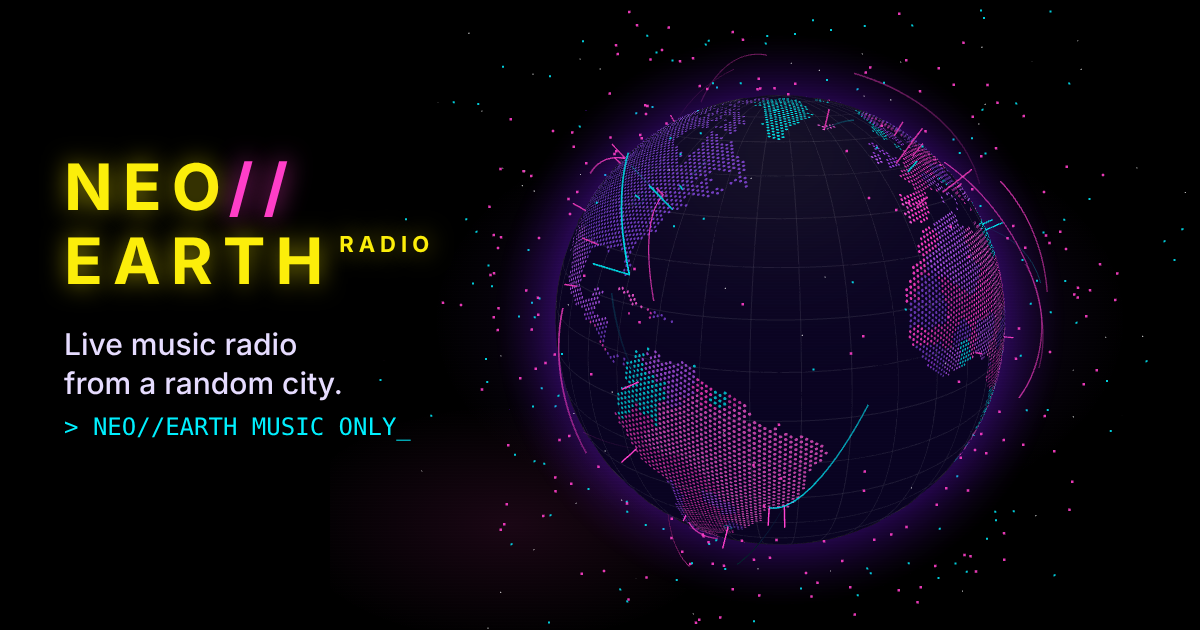
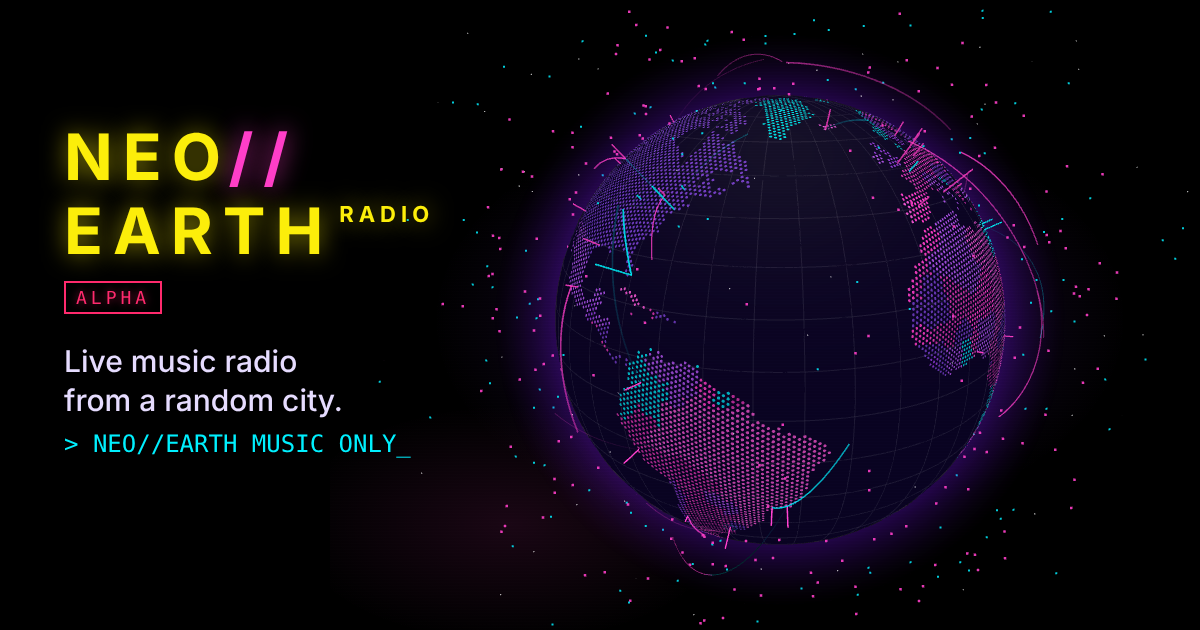
Add an ALPHA tag to all branding (build 23)
Logos in the top bar, start screen and admin dashboard, page titles,
the home-screen app name, the link-preview image and the sign-in email
now say ALPHA, to make clear the app is still in development.

Claude-Session: https://claude.ai/code/session_019KeTU5aDRdymmhchfng2r1

diff --git a/public/index.html b/public/index.html
@@ -3,13 +3,13 @@
 <head>
   <meta charset="utf-8">
   <meta name="viewport" content="width=device-width, initial-scale=1, viewport-fit=cover">
-  <title>Neo Earth Radio</title>
+  <title>Neo Earth Radio (Alpha)</title>
   <meta name="description" content="Live music radio from a random city on Neo-Earth. Neo//Earth music only. Spin a neon globe and tune in to stations around the world.">
   <!-- Link previews (iMessage, WhatsApp, Slack, social). scripts/build-meta.js
        turns these relative addresses into full ones when Vercel deploys. -->
   <meta property="og:type" content="website">
-  <meta property="og:site_name" content="Neo Earth Radio">
-  <meta property="og:title" content="Neo Earth Radio">
+  <meta property="og:site_name" content="Neo Earth Radio (Alpha)">
+  <meta property="og:title" content="Neo Earth Radio (Alpha)">
   <meta property="og:description" content="Live music radio from a random city on Neo-Earth. Neo//Earth music only.">
   <meta property="og:url" content="/">
   <meta property="og:image" content="/og-image.png">
@@ -17,7 +17,7 @@
   <meta property="og:image:height" content="630">
   <meta property="og:image:alt" content="Neo Earth Radio: a neon globe with glowing cities and radio links">
   <meta name="twitter:card" content="summary_large_image">
-  <meta name="twitter:title" content="Neo Earth Radio">
+  <meta name="twitter:title" content="Neo Earth Radio (Alpha)">
   <meta name="twitter:description" content="Live music radio from a random city on Neo-Earth. Neo//Earth music only.">
   <meta name="twitter:image" content="/og-image.png">
   <meta name="apple-mobile-web-app-title" content="Neo Earth">
@@ -37,7 +37,7 @@
   <div class="scanlines" aria-hidden="true"></div>
 
   <header class="topbar">
-    <div class="brand" aria-label="Neo Earth Radio">NEO<b>//</b>EARTH<sup class="suffix">RADIO</sup></div>
+    <div class="brand" aria-label="Neo Earth Radio, alpha">NEO<b>//</b>EARTH<sup class="suffix">RADIO</sup><span class="alpha" title="Still in development">ALPHA</span></div>
     <div class="coords mono" id="coords" aria-hidden="true">--.--°  --.--°</div>
     <button class="btn-ghost" id="openFavs" aria-controls="drawer" aria-expanded="false">
       <span class="heart" aria-hidden="true">♥</span> <span id="favLabel">SAVED</span> <span id="favCount" class="mono">0</span><span class="inbox-dot" id="inboxDot" hidden aria-label="Incoming transmissions"></span>
@@ -199,7 +199,8 @@
 
   <div class="boot" id="boot">
     <div class="boot-inner">
-      <div class="brand big" data-text="NEO//EARTH" aria-label="Neo Earth Radio">NEO<b>//</b>EARTH<sup class="suffix">RADIO</sup></div>
+      <div class="brand big" data-text="NEO//EARTH" aria-label="Neo Earth Radio, alpha">NEO<b>//</b>EARTH<sup class="suffix">RADIO</sup></div>
+      <span class="alpha alpha-boot">ALPHA // STILL IN DEVELOPMENT</span>
       <p class="mono boot-log" id="bootLog">&gt; LOADING WORLD GRID…</p>
       <p class="boot-copy">Live music radio from a random city on Neo-Earth. Neo-Earth music only.</p>
       <button class="jack" id="jackIn">JACK IN</button>

diff --git a/public/admin.html b/public/admin.html
@@ -3,7 +3,7 @@
 <head>
   <meta charset="utf-8">
   <meta name="viewport" content="width=device-width, initial-scale=1, viewport-fit=cover">
-  <title>Neo Earth Radio Dashboard</title>
+  <title>Neo Earth Radio Dashboard (Alpha)</title>
   <meta name="robots" content="noindex, nofollow">
   <meta name="theme-color" content="#05020f">
   <link rel="icon" href="/favicon.svg" type="image/svg+xml">
@@ -41,6 +41,7 @@
     header { display: flex; flex-wrap: wrap; align-items: center; gap: 12px; justify-content: space-between; }
     .brand { font-weight: 700; letter-spacing: 0.18em; font-size: 18px; color: var(--yellow); }
     .brand b { color: var(--pink); }
+    .brand .alpha { font-style: normal; font-size: 10px; letter-spacing: 0.16em; color: var(--pink); border: 1px solid var(--pink); padding: 2px 5px; margin-left: 10px; vertical-align: middle; }
     .brand .suffix { font-size: 0.45em; letter-spacing: 0.12em; vertical-align: super; margin-left: 0.25em; }
     .brand span { color: var(--dim); font-weight: 600; letter-spacing: 0.22em; font-size: 13px; margin-left: 8px; }
     .who { display: flex; align-items: center; gap: 10px; color: var(--dim); font-size: 13px; flex-wrap: wrap; }
@@ -111,7 +112,7 @@
 <body>
   <div class="wrap">
     <header>
-      <div class="brand">NEO<b>//</b>EARTH<sup class="suffix">RADIO</sup><span>DASHBOARD</span></div>
+      <div class="brand">NEO<b>//</b>EARTH<sup class="suffix">RADIO</sup><span>DASHBOARD</span><i class="alpha">ALPHA</i></div>
       <div class="who" id="who" hidden>
         <span id="whoEmail"></span>
         <span class="mono" id="updated"></span>

diff --git a/public/styles.css b/public/styles.css
@@ -60,6 +60,13 @@ button:focus-visible, label:focus-visible, input:focus-visible {
 .brand b { color: var(--magenta); font-weight: 700; text-shadow: 0 0 10px rgba(255, 42, 109, 0.7); }
 /* "RADIO" rides small and raised after the name, like a trademark mark. */
 .brand .suffix { font-size: 0.4em; letter-spacing: 0.12em; vertical-align: super; line-height: 0; margin-left: 0.25em; }
+/* "ALPHA" development tag next to the logo */
+.alpha {
+  display: inline-block; vertical-align: middle; margin-left: 8px; padding: 2px 5px 1px;
+  font-family: var(--font-mono); font-size: 9px; font-weight: 400; letter-spacing: 0.16em; line-height: 1.2;
+  color: var(--magenta); border: 1px solid var(--magenta); text-shadow: 0 0 6px rgba(255, 42, 109, 0.6);
+}
+.alpha-boot { align-self: flex-start; margin: -6px 0 0; font-size: 11px; }
 .coords { flex: 1; text-align: center; color: var(--dim); font-size: 12px; letter-spacing: 0.08em; white-space: nowrap; }
 @media (max-width: 520px) { .coords { display: none; } .topbar { justify-content: space-between; } .brand { letter-spacing: 0.12em; } }
 

diff --git a/supabase/templates/magic_link.html b/supabase/templates/magic_link.html
@@ -13,7 +13,7 @@
           <td bgcolor="#0b0618" style="background:#0b0618;border:1px solid #2b1a4d;border-top:0;padding:32px 28px 28px;font-family:'Chakra Petch',Rajdhani,'Arial Narrow',Arial,sans-serif;">
             <!-- wordmark -->
             <p style="margin:0 0 28px;font-size:20px;font-weight:700;letter-spacing:5px;color:#fcee0a;">
-              NEO<span style="color:#ff3ec8;">//</span>EARTH<sup style="font-size:45%;letter-spacing:2px;">RADIO</sup>
+              NEO<span style="color:#ff3ec8;">//</span>EARTH<sup style="font-size:45%;letter-spacing:2px;">RADIO</sup> <span style="font-size:9px;letter-spacing:2px;color:#ff2a6d;border:1px solid #ff2a6d;padding:1px 4px;vertical-align:middle;">ALPHA</span>
             </p>
             <p style="margin:0 0 6px;font-size:11px;font-weight:700;letter-spacing:4px;color:#7a6a9a;">YOUR SIGN-IN CODE</p>
             <!-- the code -->

diff --git a/public/sw.js b/public/sw.js
@@ -3,7 +3,7 @@
 //   on the next open; the cached copy is only used when offline.
 // - Big vendor files and the map: cache first (they rarely change).
 // - Audio streams and /api calls: never touched.
-const CACHE = 'signal-wave-v25';
+const CACHE = 'signal-wave-v26';
 const SHELL = ['/', '/index.html', '/styles.css', '/app.js', '/icon.svg', '/manifest.webmanifest',
   '/vibes.js', '/vendor/globe.gl.min.js', '/vendor/countries.geojson', '/vendor/supabase.js',
   '/favicon.svg', '/apple-touch-icon.png', '/icon-192.png'];

diff --git a/public/app.js b/public/app.js
@@ -37,7 +37,7 @@
     const t = id.slice(4);
     return SPECIAL_LABELS[t] || t.replace(/(^|[\s-])([a-z])/g, (m, a, b) => a + b.toUpperCase());
   }
-  const BUILD = '22';
+  const BUILD = '23';
   const MAX_SELECTED = 5; // shown in the Saved panel, to check which version is running
   const POLL_MS = 25000;
   const STALL_MS = 8000;

diff --git a/CLAUDE.md b/CLAUDE.md
@@ -15,7 +15,7 @@
 
 ## The name
 
-The app is **NEO // EARTH** (full name **Neo Earth Radio**; "radio" is just the descriptor). Logo: `NEO<b>//</b>EARTH<sup class="suffix">RADIO</sup>`, with RADIO small and raised. Home-screen name: "Neo Earth". Domain: **neoearthradio.com** (Matt registered it 2026-11-08). Renamed from "Signal Wave" / "Signal Wave ER" on 2026-11-08 because Signal Wave Radio is an active UK station (ScoobyMedia Group). Internal names stay "signalwave" (only things users never see): GitHub repo, Vercel and Supabase projects, `sw.*` storage keys, the `signal-wave-vNN` cache name, `package.json`, and the export format's `"app": "signal-wave"`. Never rename those.
+The app is **NEO // EARTH** (full name **Neo Earth Radio**; "radio" is just the descriptor). Logo: `NEO<b>//</b>EARTH<sup class="suffix">RADIO</sup>`, with RADIO small and raised, followed by a magenta **ALPHA** tag (`<span class="alpha">`) while the app is in development; titles read "Neo Earth Radio (Alpha)" and the splash shows "ALPHA // STILL IN DEVELOPMENT". Remove these when Matt says it's out of alpha. Home-screen name: "Neo Earth". Domain: **neoearthradio.com** (Matt registered it 2026-11-08). Renamed from "Signal Wave" / "Signal Wave ER" on 2026-11-08 because Signal Wave Radio is an active UK station (ScoobyMedia Group). Internal names stay "signalwave" (only things users never see): GitHub repo, Vercel and Supabase projects, `sw.*` storage keys, the `signal-wave-vNN` cache name, `package.json`, and the export format's `"app": "signal-wave"`. Never rename those.
 
 Name check at the rename: no "Neo Earth Radio" found. There is an iPhone app called **Earth Radio** (Vweeter Limited) that also plays world radio on a 3D globe, so lead with "Neo Earth" / NEO // EARTH in branding and recheck before any App Store launch or monetization. To rename again, follow [docs/RENAMING.md](docs/RENAMING.md) (or the `/neoearth-rename` skill).
 
@@ -117,6 +117,7 @@ The app was planned and first built in a separate claude.ai chat, "Cyberpunk wor
 - First lore written (the war, the NESE, the four species); vibe-mode UFO is now the Kryx with new radio-chatter lines, and its disco-ball orbs shoot asteroids (build 20).
 - Link previews and share image now say "Neo//Earth music only" (build 21).
 - NESE member IDs, NESE Dashboard with ID badge, and transmitting stations to another member's ID with an incoming-transmissions inbox (build 22). Needs migration `20261108070000_nese_members.sql`.
+- ALPHA tag on all branding: logos, page titles, splash, admin, share image, sign-in email (build 23).
 
 Add a line here when shipping something notable.
 

diff --git a/docs/LORE.md b/docs/LORE.md
@@ -101,7 +101,7 @@ Music was thought to be an important factor to aid in the healing process of Neo
 
 What the app says today, so it's clear what the lore would change. File names are for Claude.
 
-**Splash page** (`public/index.html`): logo NEO // EARTH ^RADIO; tagline "Live music radio from a random city on Neo-Earth. Neo-Earth music only."; boot log "> LOADING WORLD GRID…" then "> WORLD GRID ONLINE // READY"; button "JACK IN".
+**Splash page** (`public/index.html`): logo NEO // EARTH ^RADIO with an ALPHA tag and "ALPHA // STILL IN DEVELOPMENT" (development marker, not lore); tagline "Live music radio from a random city on Neo-Earth. Neo-Earth music only."; boot log "> LOADING WORLD GRID…" then "> WORLD GRID ONLINE // READY"; button "JACK IN".
 
 **Link previews** (`public/index.html` meta tags, `public/og-image.png`): "Live music radio from a random city on Neo-Earth. Neo//Earth music only." / image tagline "> NEO//EARTH MUSIC ONLY_".
 
